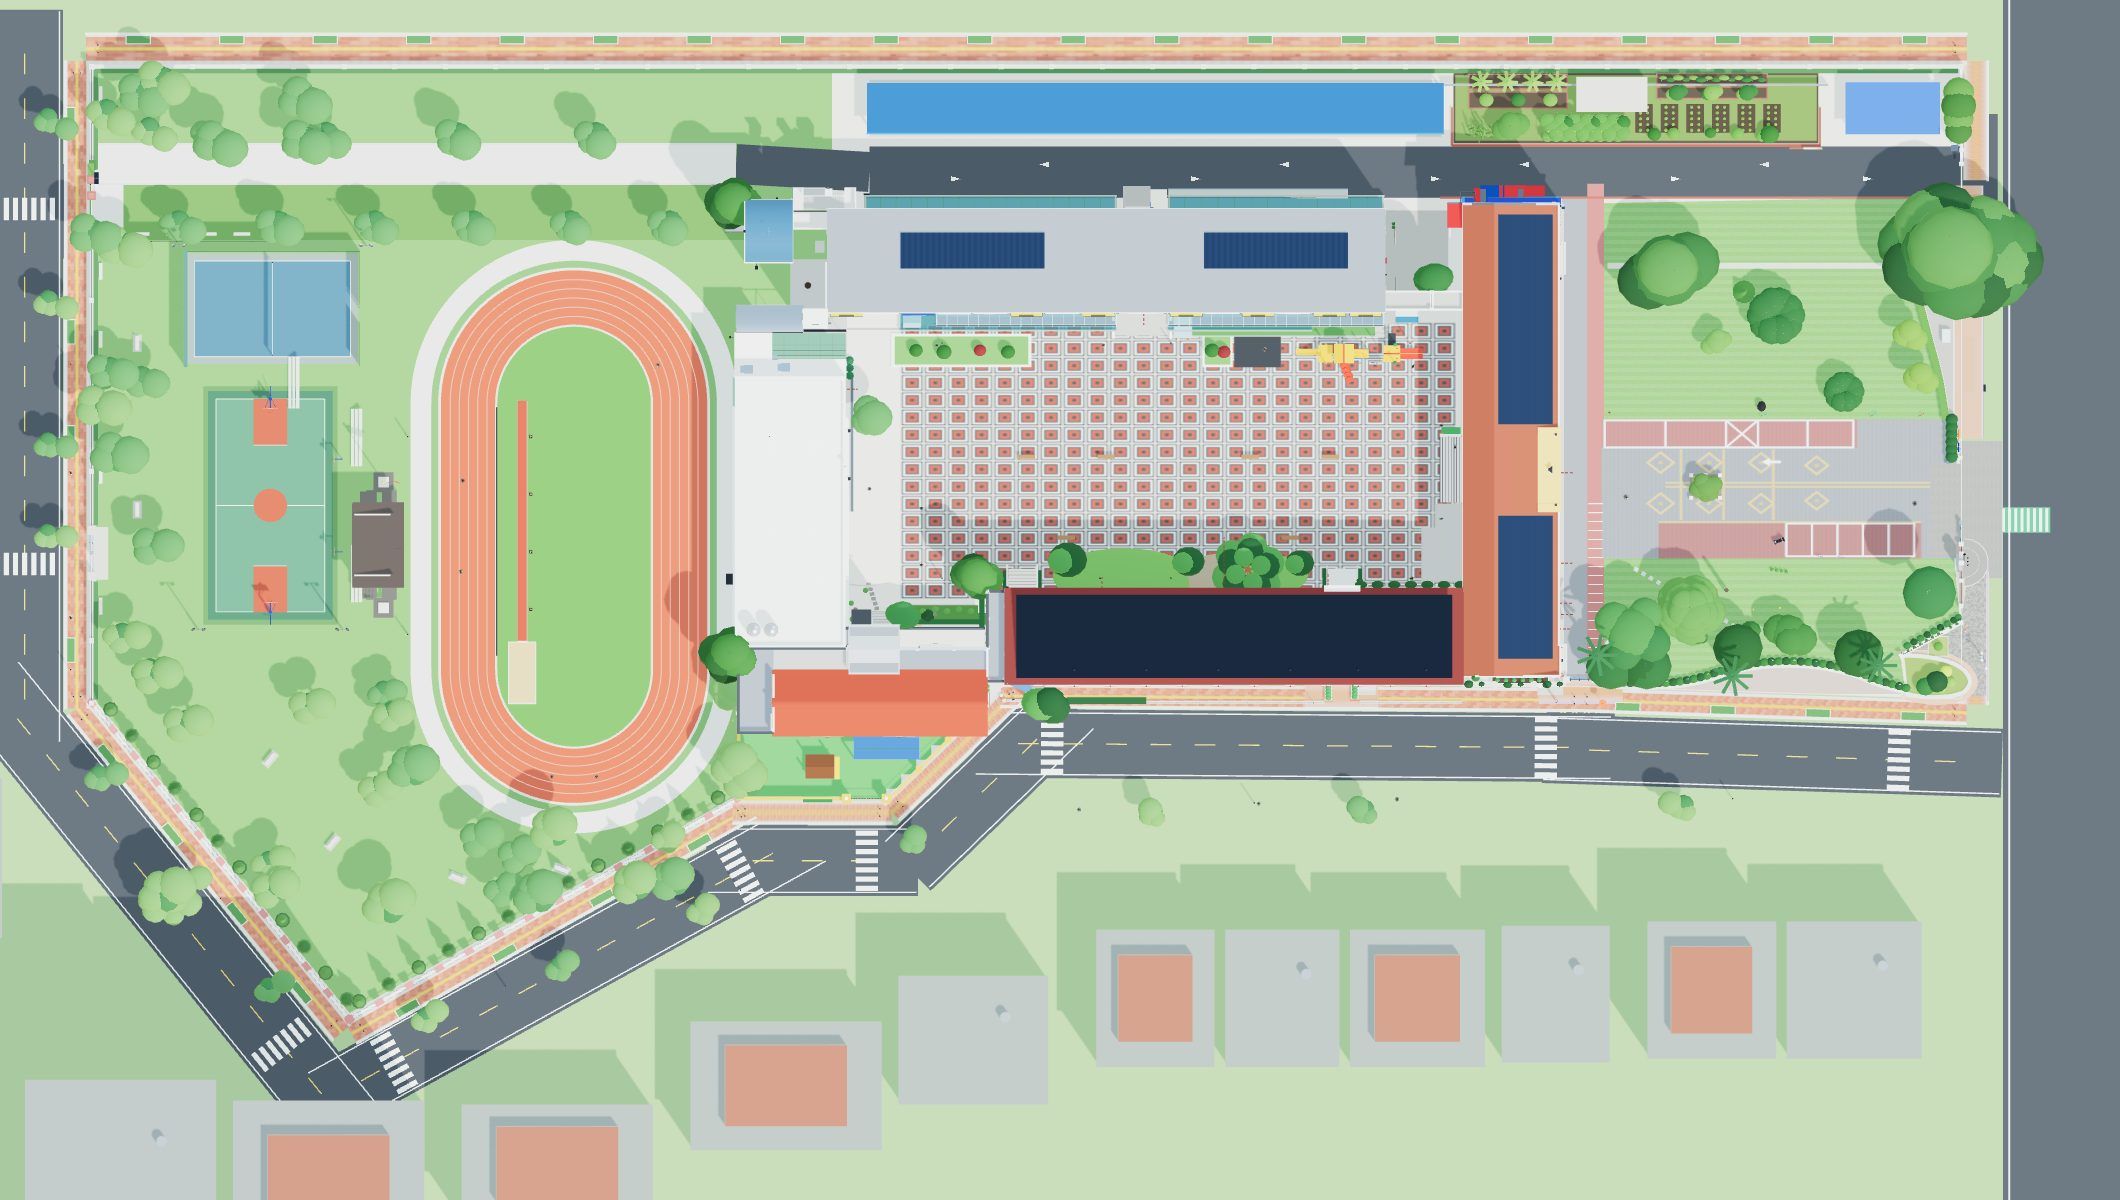
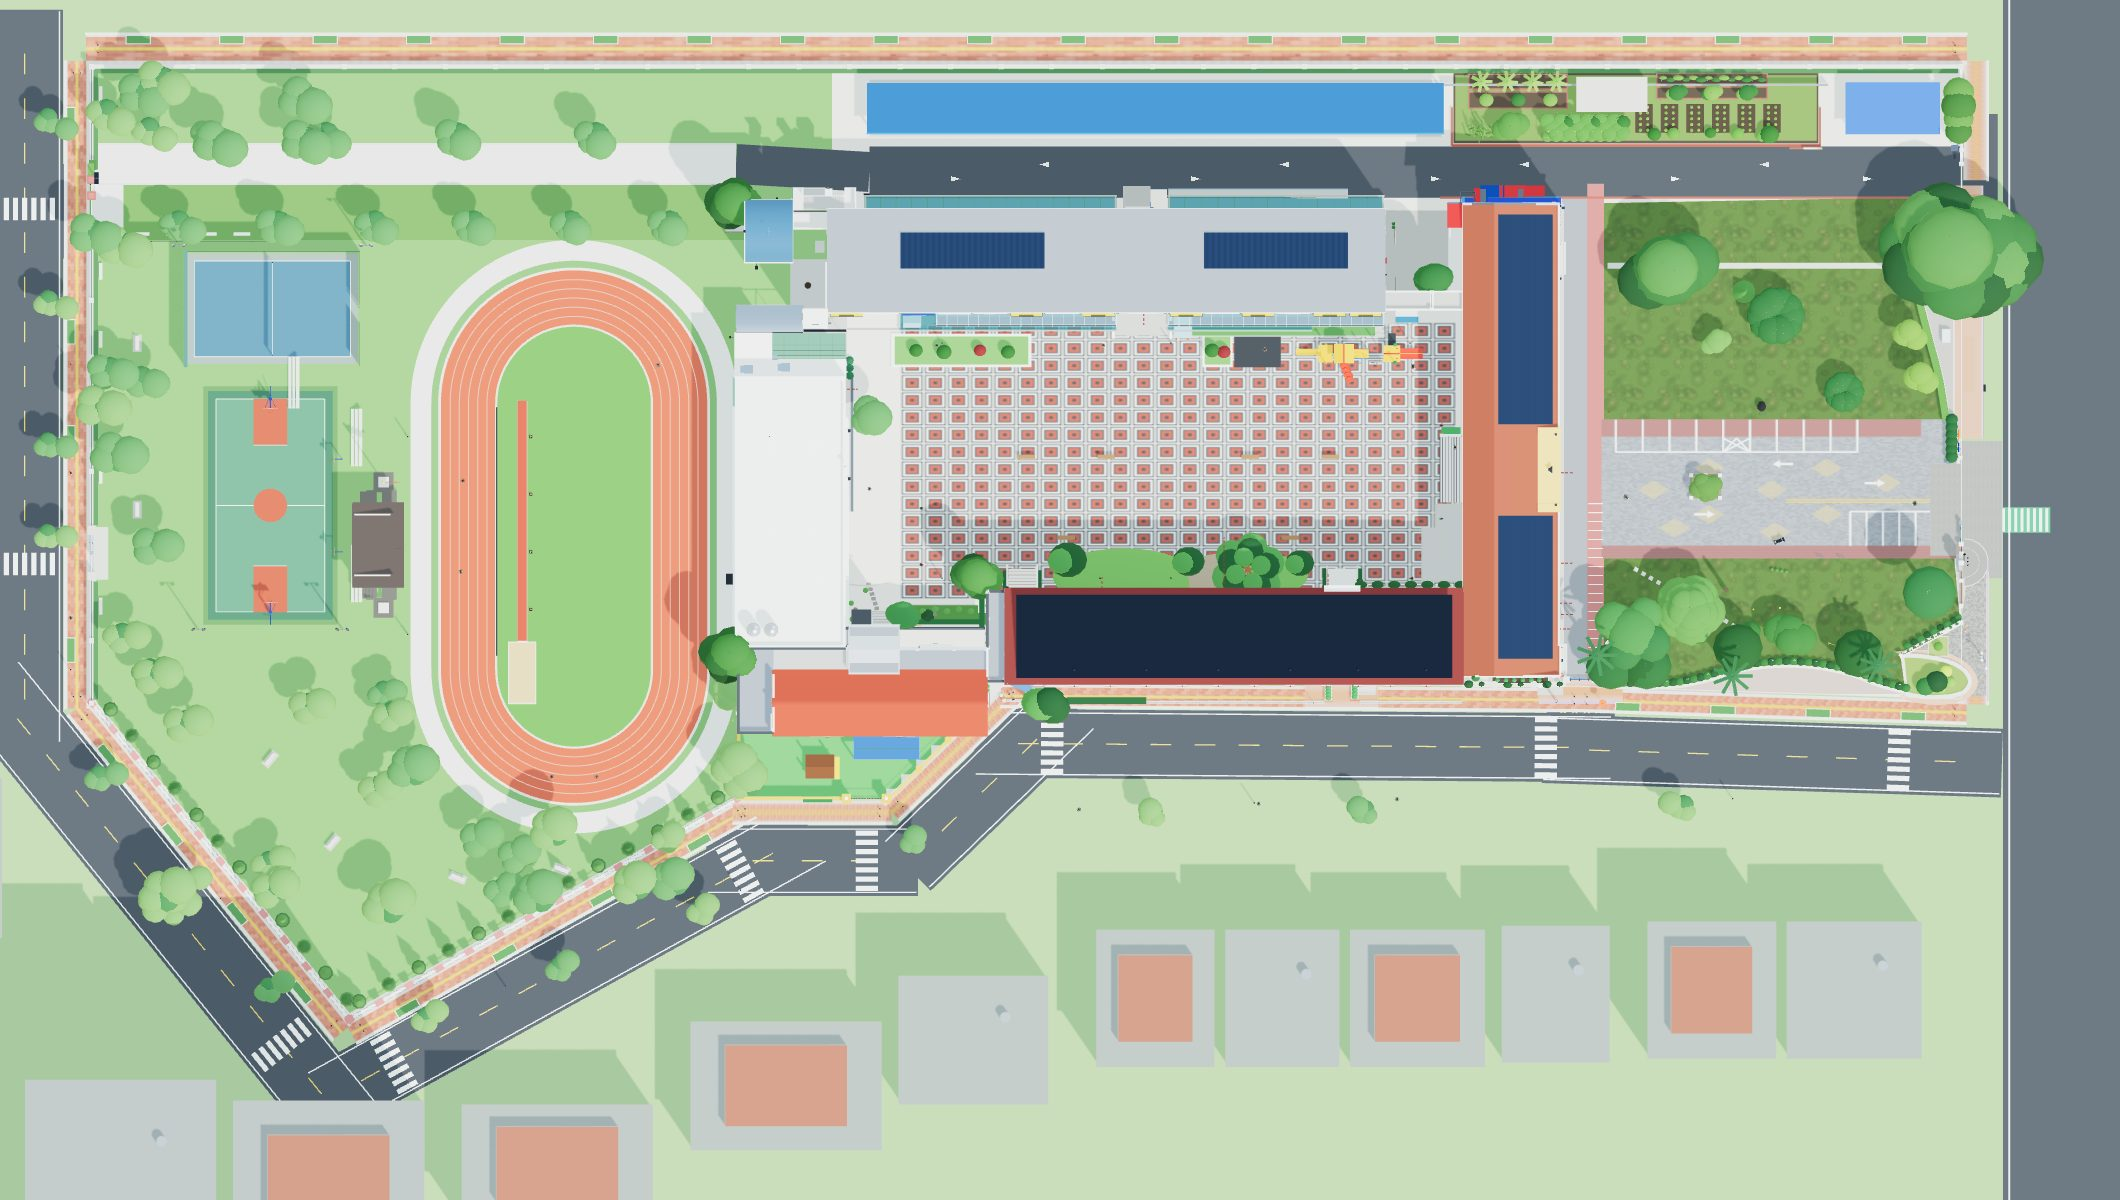
feat(forecourt): match plaza paving, lawns and south-lawn art to 2026 aerial photos (v2.11.4)
From four photos taken from the east building 2F:
- central plaza: fine grey interlocking pavers with filled pale-tan diamond inlays
  (not outlines); red-brick bands only along the two lawn edges (2.2 m north,
  1.6 m south) instead of two wide bands through the middle; north row of
  perpendicular stalls whose dividers cross the red band, with one hatched stall;
  five perpendicular stalls on the south side by the gate; double yellow line
  from the gate to the centre planter; direction arrows
- forecourt lawns: new olive-green turf texture with worn patches, no mowing stripes
- south lawn: generic sculpture replaced by the weathered 'mother and child' stone
  sculpture on a rough base, plus the black river boulder with red 耕心園 lettering
- admin map images regenerated

Claude-Session: https://claude.ai/code/session_0167Rfd13qErLKZLgH1cNLB3

Changed region(s): [[0.7472, 0.1542, 0.934, 0.4008], [0.7472, 0.4008, 0.934, 0.5858]]

diff --git a/campus-3d.js b/campus-3d.js
@@ -933,6 +933,33 @@ function addBox(parent, w, h, d, mat, x, y, z, cast = true) {
 addBox(layerGroups.roads, 980, 0.2, 980, new THREE.MeshStandardMaterial({ color: 0x8eb374, roughness: 0.92 }), 0, -0.14, 0, false);
 
 // Procedural Campus Green Lawn Texture (`運動場與後圍牆間的校園草地緩衝區` 自然草皮紋理)
+// 前庭草坪（依 2026 俯拍照片：偏橄欖綠、無明顯割草條紋、局部黃褐色踩踏斑塊）
+function makeForecourtLawnTexture() {
+  const c = document.createElement('canvas');
+  c.width = c.height = 512;
+  const ctx = c.getContext('2d');
+  ctx.fillStyle = '#4f6a2c';
+  ctx.fillRect(0, 0, 512, 512);
+  let s = 77;
+  const r = () => ((s = (s * 16807) % 2147483647) / 2147483647);
+  for (let i = 0; i < 26; i++) {               // 大塊色差
+    const g = ctx.createRadialGradient(0, 0, 0, 0, 0, 1);
+    const x = r() * 512, y = r() * 512, rad = 30 + r() * 70;
+    ctx.save(); ctx.translate(x, y); ctx.scale(rad, rad * (0.6 + r() * 0.6));
+    g.addColorStop(0, i % 4 === 0 ? 'rgba(160,140,90,0.35)' : (i % 2 ? 'rgba(90,120,55,0.35)' : 'rgba(120,145,70,0.30)'));
+    g.addColorStop(1, 'rgba(0,0,0,0)');
+    ctx.fillStyle = g; ctx.beginPath(); ctx.arc(0, 0, 1, 0, Math.PI * 2); ctx.fill(); ctx.restore();
+  }
+  for (let i = 0; i < 4200; i++) {
+    ctx.fillStyle = ['#46602a', '#62803c', '#6f8746', '#435a2c'][i % 4];
+    ctx.fillRect(r() * 512, r() * 512, 2, 2);
+  }
+  const tex = new THREE.CanvasTexture(c);
+  tex.wrapS = tex.wrapT = THREE.RepeatWrapping;
+  tex.colorSpace = THREE.SRGBColorSpace;
+  return tex;
+}
+
 function makeCampusLawnTexture() {
   const c = document.createElement('canvas');
   c.width = 256; c.height = 256;
@@ -16308,87 +16335,64 @@ function buildMainGateLayer() {
     ctx.fillStyle = '#8b8e92';
     ctx.fillRect(0, 0, W, H);
 
-    // 北側粉紅連鎖磚縱向停車帶 (y: 0..210) 與南側垂直停車格粉紅磚帶 (y: 760..1024)
-    ctx.fillStyle = '#a86b68';
-    ctx.fillRect(0, 0, W * 0.72, 210);
-    ctx.fillStyle = '#9e6865';
-    ctx.fillRect(W * 0.16, 760, W * 0.74, 264);
-
-    // 細密連鎖磚格線
-    ctx.strokeStyle = 'rgba(45,48,52,0.28)';
-    ctx.lineWidth = 1.5;
-    for (let x = 0; x < W; x += 24) {
-      ctx.beginPath(); ctx.moveTo(x, 0); ctx.lineTo(x, H); ctx.stroke();
+    // v2.11.4 依 2026 東棟 2F 俯拍照片重繪（畫布上 = 北、左 = 東棟、右 = 校門；1 m ≈ 46 px 寬 × 59 px 深）
+    // 細密灰色連鎖磚（錯縫小長方磚，每片微幅色差）
+    {
+      let sd = 7; const rnd = () => ((sd = (sd * 16807) % 2147483647) / 2147483647);
+      for (let y = 0; y < H; y += 12) {
+        const off = ((y / 12) % 2) * 11;
+        for (let x = -22; x < W; x += 22) {
+          const v = 128 + Math.floor(rnd() * 22);
+          ctx.fillStyle = `rgb(${v},${v + 2},${v + 5})`;
+          ctx.fillRect(x + off + 1, y + 1, 20, 10);
+        }
+      }
     }
-    for (let y = 0; y < H; y += 16) {
-      ctx.beginPath(); ctx.moveTo(0, y); ctx.lineTo(W, y); ctx.stroke();
-    }
-
-    // 中央米黃色雙道引導磚線 (x: W*0.42..W*0.96, y: 465 & 495) 與縱向黃磚裝飾線
-    ctx.fillStyle = '#c4a668';
-    ctx.fillRect(W * 0.18, 462, W * 0.78, 12);
-    ctx.fillRect(W * 0.18, 492, W * 0.78, 12);
-    ctx.fillRect(W * 0.16, 752, W * 0.74, 12);
-    [0.22, 0.34, 0.48].forEach(fx => {
-      ctx.fillRect(W * fx, 220, 14, 520);
+    // 淡米黃色菱形拼花磚塊（照片：填色淡黃褐色方塊，非框線）
+    ctx.fillStyle = 'rgba(196,170,112,0.55)';
+    [[300, 520], [620, 360], [620, 700], [980, 520], [1300, 360], [1300, 700], [1640, 470], [420, 800], [1000, 830]].forEach(([dx, dy]) => {
+      ctx.beginPath(); ctx.moveTo(dx, dy - 70); ctx.lineTo(dx + 90, dy); ctx.lineTo(dx, dy + 70); ctx.lineTo(dx - 90, dy); ctx.closePath(); ctx.fill();
     });
+    // 北側（臨北草坪）紅磚帶 2.2 m，南側（臨南草坪）紅磚帶 1.6 m，皆全長
+    const brick = (x, y, w, h, base) => {
+      ctx.fillStyle = base; ctx.fillRect(x, y, w, h);
+      ctx.strokeStyle = 'rgba(60,30,28,0.25)'; ctx.lineWidth = 1.5;
+      for (let yy = y; yy < y + h; yy += 12) { ctx.beginPath(); ctx.moveTo(x, yy); ctx.lineTo(x + w, yy); ctx.stroke(); }
+    };
+    brick(0, 0, W * 0.90, 130, '#9a6662');
+    brick(0, H - 94, W, 94, '#956460');
+    // 中央偏南雙黃線（自校門延伸至中央花台）
+    ctx.fillStyle = '#d1a93e';
+    ctx.fillRect(W * 0.52, 588, W * 0.48, 9);
+    ctx.fillRect(W * 0.52, 606, W * 0.48, 9);
 
-    // 米黃色菱格幾何拼花圖騰 (Argyle / Diamond Inlays，照片 5 地面特色拼花)
-    function drawYellowDiamond(cx, cy, r) {
-      ctx.save();
-      ctx.strokeStyle = '#c8aa6c';
-      ctx.lineWidth = 14;
-      ctx.beginPath();
-      ctx.moveTo(cx, cy - r);
-      ctx.lineTo(cx + r, cy);
-      ctx.lineTo(cx, cy + r);
-      ctx.lineTo(cx - r, cy);
-      ctx.closePath();
-      ctx.stroke();
-      ctx.fillStyle = '#b89a5e';
-      ctx.fillRect(cx - 12, cy - 12, 24, 24);
-      ctx.restore();
-    }
-    [
-      [340, 320, 75], [340, 620, 75],
-      [620, 320, 70], [620, 620, 70],
-      [920, 320, 70], [920, 620, 70],
-      [1240, 340, 65], [1240, 600, 65]
-    ].forEach(([dx, dy, dr]) => drawYellowDiamond(dx, dy, dr));
-
-    // 北側白線縱向停車區、禁停交叉網格 (✕) 與白色方向箭頭 (← 朝向東棟)
-    ctx.strokeStyle = '#f8fafc';
-    ctx.lineWidth = 10;
-    ctx.strokeRect(18, 8, W * 0.70, 200);
-    [0.18, 0.35, 0.44, 0.58].forEach(fx => {
-      ctx.beginPath(); ctx.moveTo(W * fx, 8); ctx.lineTo(W * fx, 208); ctx.stroke();
-    });
-    // 禁停白叉網格 (位於 x: 0.35..0.44)
-    ctx.beginPath();
-    ctx.moveTo(W * 0.35, 8); ctx.lineTo(W * 0.44, 208);
-    ctx.moveTo(W * 0.44, 8); ctx.lineTo(W * 0.35, 208);
-    ctx.stroke();
-
-    // 地面白色方向箭頭 (照片 5 北車道朝向東棟之白色箭頭)
-    ctx.fillStyle = '#f8fafc';
-    const ax = W * 0.47, ay = 315;
-    ctx.fillRect(ax, ay - 8, 70, 16);
-    ctx.beginPath();
-    ctx.moveTo(ax - 36, ay);
-    ctx.lineTo(ax + 6, ay - 28);
-    ctx.lineTo(ax + 6, ay + 28);
-    ctx.closePath();
-    ctx.fill();
-
-    // 南側 5 格白線垂直停車格 (照片 5 右側 5 格整齊白線停車位)
-    const stallStartX = W * 0.52, stallEndX = W * 0.88;
-    const stallW = (stallEndX - stallStartX) / 5;
-    ctx.strokeStyle = '#f8fafc';
+    ctx.strokeStyle = '#f4f6f8';
     ctx.lineWidth = 9;
-    for (let s = 0; s < 5; s++) {
-      const sx = stallStartX + s * stallW;
-      ctx.strokeRect(sx, 768, stallW, 240);
+    // 北側垂直停車格：前緣長白線（距北緣 4.1 m），分隔線橫跨紅磚帶至草坪緣；中段一格為斜線禁停格
+    const nStallY = 242, nX0 = W * 0.04, nX1 = W * 0.72, nCount = 9, nW = (nX1 - nX0) / nCount;
+    ctx.beginPath(); ctx.moveTo(nX0, nStallY); ctx.lineTo(nX1, nStallY); ctx.stroke();
+    for (let i = 0; i <= nCount; i++) { ctx.beginPath(); ctx.moveTo(nX0 + i * nW, 4); ctx.lineTo(nX0 + i * nW, nStallY); ctx.stroke(); }
+    {
+      const hx = nX0 + 4 * nW;   // 照片中的白色斜線格
+      ctx.beginPath(); ctx.moveTo(hx, 140); ctx.lineTo(hx + nW, nStallY); ctx.moveTo(hx + nW, 140); ctx.lineTo(hx, nStallY);
+      ctx.moveTo(hx + nW * 0.5, 140); ctx.lineTo(hx, nStallY); ctx.moveTo(hx + nW * 0.5, 140); ctx.lineTo(hx + nW, nStallY); ctx.stroke();
     }
+    // 南側近校門 5 格垂直停車格（灰磚上，南緣接紅磚帶）
+    const sX0 = W * 0.70, sX1 = W * 0.93, sCount = 5, sW = (sX1 - sX0) / sCount, sY0 = H - 94 - 250;
+    ctx.beginPath(); ctx.moveTo(sX0, sY0); ctx.lineTo(sX0, H - 94); ctx.stroke();
+    for (let i = 0; i <= sCount; i++) { ctx.beginPath(); ctx.moveTo(sX0 + i * sW, sY0 + (i === 0 ? 0 : 0)); ctx.lineTo(sX0 + i * sW, H - 94); ctx.stroke(); }
+    ctx.beginPath(); ctx.moveTo(sX0, sY0); ctx.lineTo(sX1, sY0); ctx.stroke();
+    // 白色方向箭頭：北車道 ← 往東棟、南側 ↰ 轉向與直行箭頭
+    ctx.fillStyle = '#f4f6f8';
+    const arrow = (x, y, dir) => {
+      ctx.save(); ctx.translate(x, y); ctx.scale(dir, 1);
+      ctx.fillRect(0, -7, 80, 14);
+      ctx.beginPath(); ctx.moveTo(-36, 0); ctx.lineTo(4, -26); ctx.lineTo(4, 26); ctx.closePath(); ctx.fill();
+      ctx.restore();
+    };
+    arrow(W * 0.50, 330, 1);
+    arrow(W * 0.30, 700, -1);
+    arrow(W * 0.78, 470, -1);
 
     const t = new THREE.CanvasTexture(c);
     t.colorSpace = THREE.SRGBColorSpace;
@@ -16568,7 +16572,7 @@ function buildMainGateLayer() {
     const nLawnW = nLawnMaxX - nLawnMinX, nLawnD = nLawnMaxZ - nLawnMinZ;
     const nLawnCx = (nLawnMinX + nLawnMaxX) / 2, nLawnCz = (nLawnMinZ + nLawnMaxZ) / 2;
     // 依《學校前庭綠籬規劃平面圖》：臨復興路一側為向草坪內凹之大圓弧（FU-SHING 矮牆北端 → 老榕樹後方 → 東側門）
-    const northLawnTex = makeCampusLawnTexture(); northLawnTex.repeat.set(1, 1);
+    const northLawnTex = makeForecourtLawnTexture(); northLawnTex.repeat.set(0.6, 0.6);
     const northTurfMat = new THREE.MeshStandardMaterial({ map: northLawnTex, roughness: 0.88, polygonOffset: true, polygonOffsetFactor: -1, polygonOffsetUnits: -1 });
     const northCurvePts = sampleXZCurve(FORECOURT_NORTH_CURVE, 0.5);
     {
@@ -16984,7 +16988,7 @@ function buildMainGateLayer() {
     const sLawnW = sLawnMaxX - sLawnMinX, sLawnD = sLawnMaxZ - sLawnMinZ;
     const sLawnCx = (sLawnMinX + sLawnMaxX) / 2, sLawnCz = (sLawnMinZ + sLawnMaxZ) / 2;
     // 依《學校前庭綠籬規劃平面圖》：北緣臨中央廣場直線、東緣沿大門南側欄杆與斜向矮牆、南緣為 S 形曲線
-    const southLawnTex = makeCampusLawnTexture(); southLawnTex.repeat.set(1, 1);
+    const southLawnTex = makeForecourtLawnTexture(); southLawnTex.repeat.set(0.6, 0.6);
     const southTurfMat = new THREE.MeshStandardMaterial({ map: southLawnTex, roughness: 0.88, polygonOffset: true, polygonOffsetFactor: -1, polygonOffsetUnits: -1 });
     {
       const southEdge = offsetXZ(sampleXZCurve(FORECOURT_SOUTH_CURVE, 0.5), 0.20, 0, -1).reverse();   // 由西往東
@@ -17048,16 +17052,45 @@ function buildMainGateLayer() {
       addBox(mg, 0.04, 0.22, 0.30, new THREE.MeshStandardMaterial({ color: 0xffffff }), 85.55, 1.45, 8.8);
     }
 
-    // 3. 草坪中央「方形水泥基座與石雕藝術品」(照片 4 小葉欖仁後方淺灰石雕)
+    // 3. 南草坪「母子」石雕與「耕心園」黑色刻字景觀石（依 2026 實景照片 29、30）
     {
       const scx = 84.5, scz = 11.4;
-      const sculpBaseMat = new THREE.MeshStandardMaterial({ color: 0x9ca3af, roughness: 0.85 });
-      const sculpStoneMat = new THREE.MeshStandardMaterial({ color: 0xd1d5db, roughness: 0.68 });
-      addBox(mg, 0.76, 0.52, 0.76, sculpBaseMat, scx, 0.26, scz);
-      addBox(mg, 0.84, 0.08, 0.84, stoneCapMat, scx, 0.54, scz);
-      const body = addMesh(mg, new THREE.CylinderGeometry(0.22, 0.28, 0.95, 10), sculpStoneMat, scx, 1.05, scz);
-      body.scale.set(1.1, 1.0, 0.85);
-      addMesh(mg, new THREE.SphereGeometry(0.20, 10, 10), sculpStoneMat, scx, 1.62, scz);
+      const stoneMat = new THREE.MeshStandardMaterial({ color: 0x8f877b, roughness: 0.92 });
+      const baseMat = new THREE.MeshStandardMaterial({ color: 0x55534f, roughness: 0.95 });
+      const sg = new THREE.Group();
+      sg.position.set(scx, 0, scz);
+      sg.rotation.y = -0.35;                       // 母親身軀前傾朝東，懷抱幼兒
+      addBox(sg, 0.62, 0.42, 0.55, baseMat, 0, 0.21, 0);                                   // 粗鑿方形石座
+      const body = addMesh(sg, new THREE.CylinderGeometry(0.17, 0.25, 0.95, 14), stoneMat, -0.06, 0.88, 0);
+      body.rotation.z = 0.22; body.scale.set(1.0, 1.0, 0.75);                             // 弧形背部
+      addMesh(sg, new THREE.SphereGeometry(0.155, 14, 12), stoneMat, 0.06, 1.48, 0);       // 母親頭部（光滑卵形）
+      const arm = addMesh(sg, new THREE.CylinderGeometry(0.07, 0.08, 0.36, 10), stoneMat, 0.14, 0.95, 0);
+      arm.rotation.z = Math.PI / 2.4;
+      addMesh(sg, new THREE.SphereGeometry(0.095, 12, 10), stoneMat, 0.30, 1.05, 0);       // 幼兒頭部
+      const child = addMesh(sg, new THREE.CylinderGeometry(0.06, 0.09, 0.30, 10), stoneMat, 0.27, 0.82, 0);
+      child.rotation.z = -0.2;
+      mg.add(sg);
+
+      // 「耕心園」景觀石：黑色圓潤河石，正面朝北（朝廣場），紅字
+      // 球面 UV：u = 0.5 對應 +x，旋轉 +90° 後朝北 (−z)；字集中在 u 0.42～0.58 的正面範圍（1 px ≈ 3 mm）
+      const c = document.createElement('canvas'); c.width = 1024; c.height = 512;
+      const ctx = c.getContext('2d');
+      const grd = ctx.createLinearGradient(0, 0, 0, 512);
+      grd.addColorStop(0, '#262627'); grd.addColorStop(0.62, '#2f2f30'); grd.addColorStop(1, '#5f5d58');
+      ctx.fillStyle = grd; ctx.fillRect(0, 0, 1024, 512);
+      ctx.fillStyle = '#a8352b'; ctx.textAlign = 'center'; ctx.textBaseline = 'middle';
+      ctx.save(); ctx.scale(0.82, 1);
+      ctx.font = 'bold 96px "Noto Serif TC", "PMingLiU", serif';
+      ctx.fillText('耕', 438 / 0.82, 262); ctx.fillText('園', 590 / 0.82, 262);
+      ctx.font = 'bold 66px "Noto Serif TC", "PMingLiU", serif';
+      ctx.fillText('心', 514 / 0.82, 178);
+      ctx.restore();
+      const tex = new THREE.CanvasTexture(c); tex.colorSpace = THREE.SRGBColorSpace; tex.anisotropy = 8;
+      const rockMat = new THREE.MeshStandardMaterial({ map: tex, roughness: 0.5 });
+      const rock = addMesh(mg, new THREE.SphereGeometry(0.5, 32, 20), rockMat, scx - 1.7, 0.38, scz + 0.15);
+      rock.scale.set(1.32, 0.86, 0.80);
+      rock.rotation.y = Math.PI / 2;
+      rock.scale.set(0.80, 0.86, 1.32);   // 旋轉後：局部 z 為東西寬 1.32 m、局部 x 為南北厚 0.80 m
     }
 
     // 4. 草坪中南側灌木叢與東南側「斜幹造型榕樹＋樹下紅陶盆栽群」(照片 4 右側標誌性斜幹樹與盆栽)

diff --git a/index.html b/index.html
@@ -43,7 +43,7 @@ window.__updateProgress(15, '正在啟動三維校園引擎...');
 if ('serviceWorker' in navigator) {
   window.addEventListener('DOMContentLoaded', () => {
     window.__updateProgress(25, '校園核心樣式就緒...');
-    navigator.serviceWorker.register('./sw.js?v=2.11.3').then(reg => {
+    navigator.serviceWorker.register('./sw.js?v=2.11.4').then(reg => {
       reg.update();
     }).catch(() => {});
     navigator.serviceWorker.addEventListener('controllerchange', () => {
@@ -76,7 +76,7 @@ document.addEventListener('click', function(e) {
 </script>
 <!-- modulepreload 必須放在 importmap 之後，否則瀏覽器會在 import map 生效前解析 "three" 而失敗 -->
 <link rel="modulepreload" href="./vendor/three/three.module.js">
-<link rel="modulepreload" href="./campus-3d.js?v=2.11.3">
+<link rel="modulepreload" href="./campus-3d.js?v=2.11.4">
 <style>
   /* ==========================================================================
      PKU-3D ("燕园 · 循图，走进燕园") Editorial Design System
@@ -3635,6 +3635,6 @@ document.addEventListener('click', function(e) {
 <script src="./vendor/qrcode.min.js"></script>
 <script src="./data/spots.js"></script>
 <script src="./campus-ui.js?v=2.10.1"></script>
-<script type="module" src="./campus-3d.js?v=2.11.3"></script>
+<script type="module" src="./campus-3d.js?v=2.11.4"></script>
 </body>
 </html>

diff --git a/sw.js b/sw.js
@@ -1,7 +1,7 @@
 // 屏東縣屏東市復興國小 3D 數位校園 (Service Worker)
-// Version: fuxing-3d-campus-v2.11.3
+// Version: fuxing-3d-campus-v2.11.4
 
-const CACHE_NAME = 'fuxing-3d-campus-v2.11.3';
+const CACHE_NAME = 'fuxing-3d-campus-v2.11.4';
 
 // 核心極速快取清單 (App Shell + 3D 引擎 + 1:1 2.5D 高清預覽底圖 + 核心平面圖 + 離線 QR Code)
 const PRECACHE_ASSETS = [
